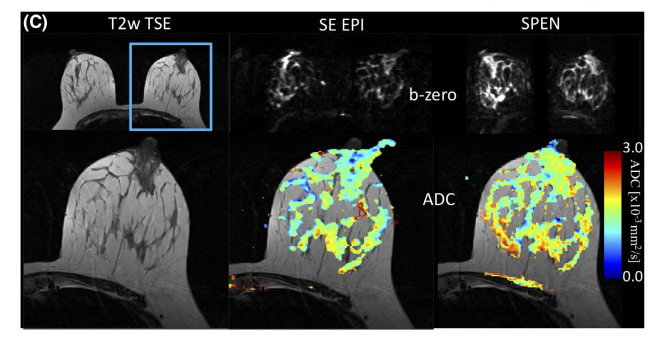
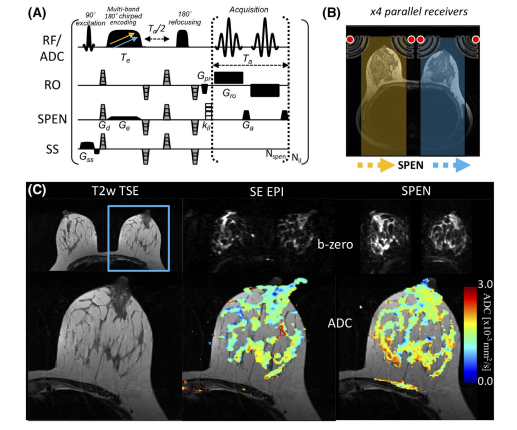
Update contact email and publication preview

diff --git a/_pages/team/eddy-solomon.md b/_pages/team/eddy-solomon.md
@@ -10,7 +10,7 @@ research_fields:
   - Quantitative MRI
   - AI for Medical Imaging
   - Breast DCE-MRI
-email: [email redacted]
+email: [email redacted]
 links:
   - label: Lab Publications
     url: /publications/